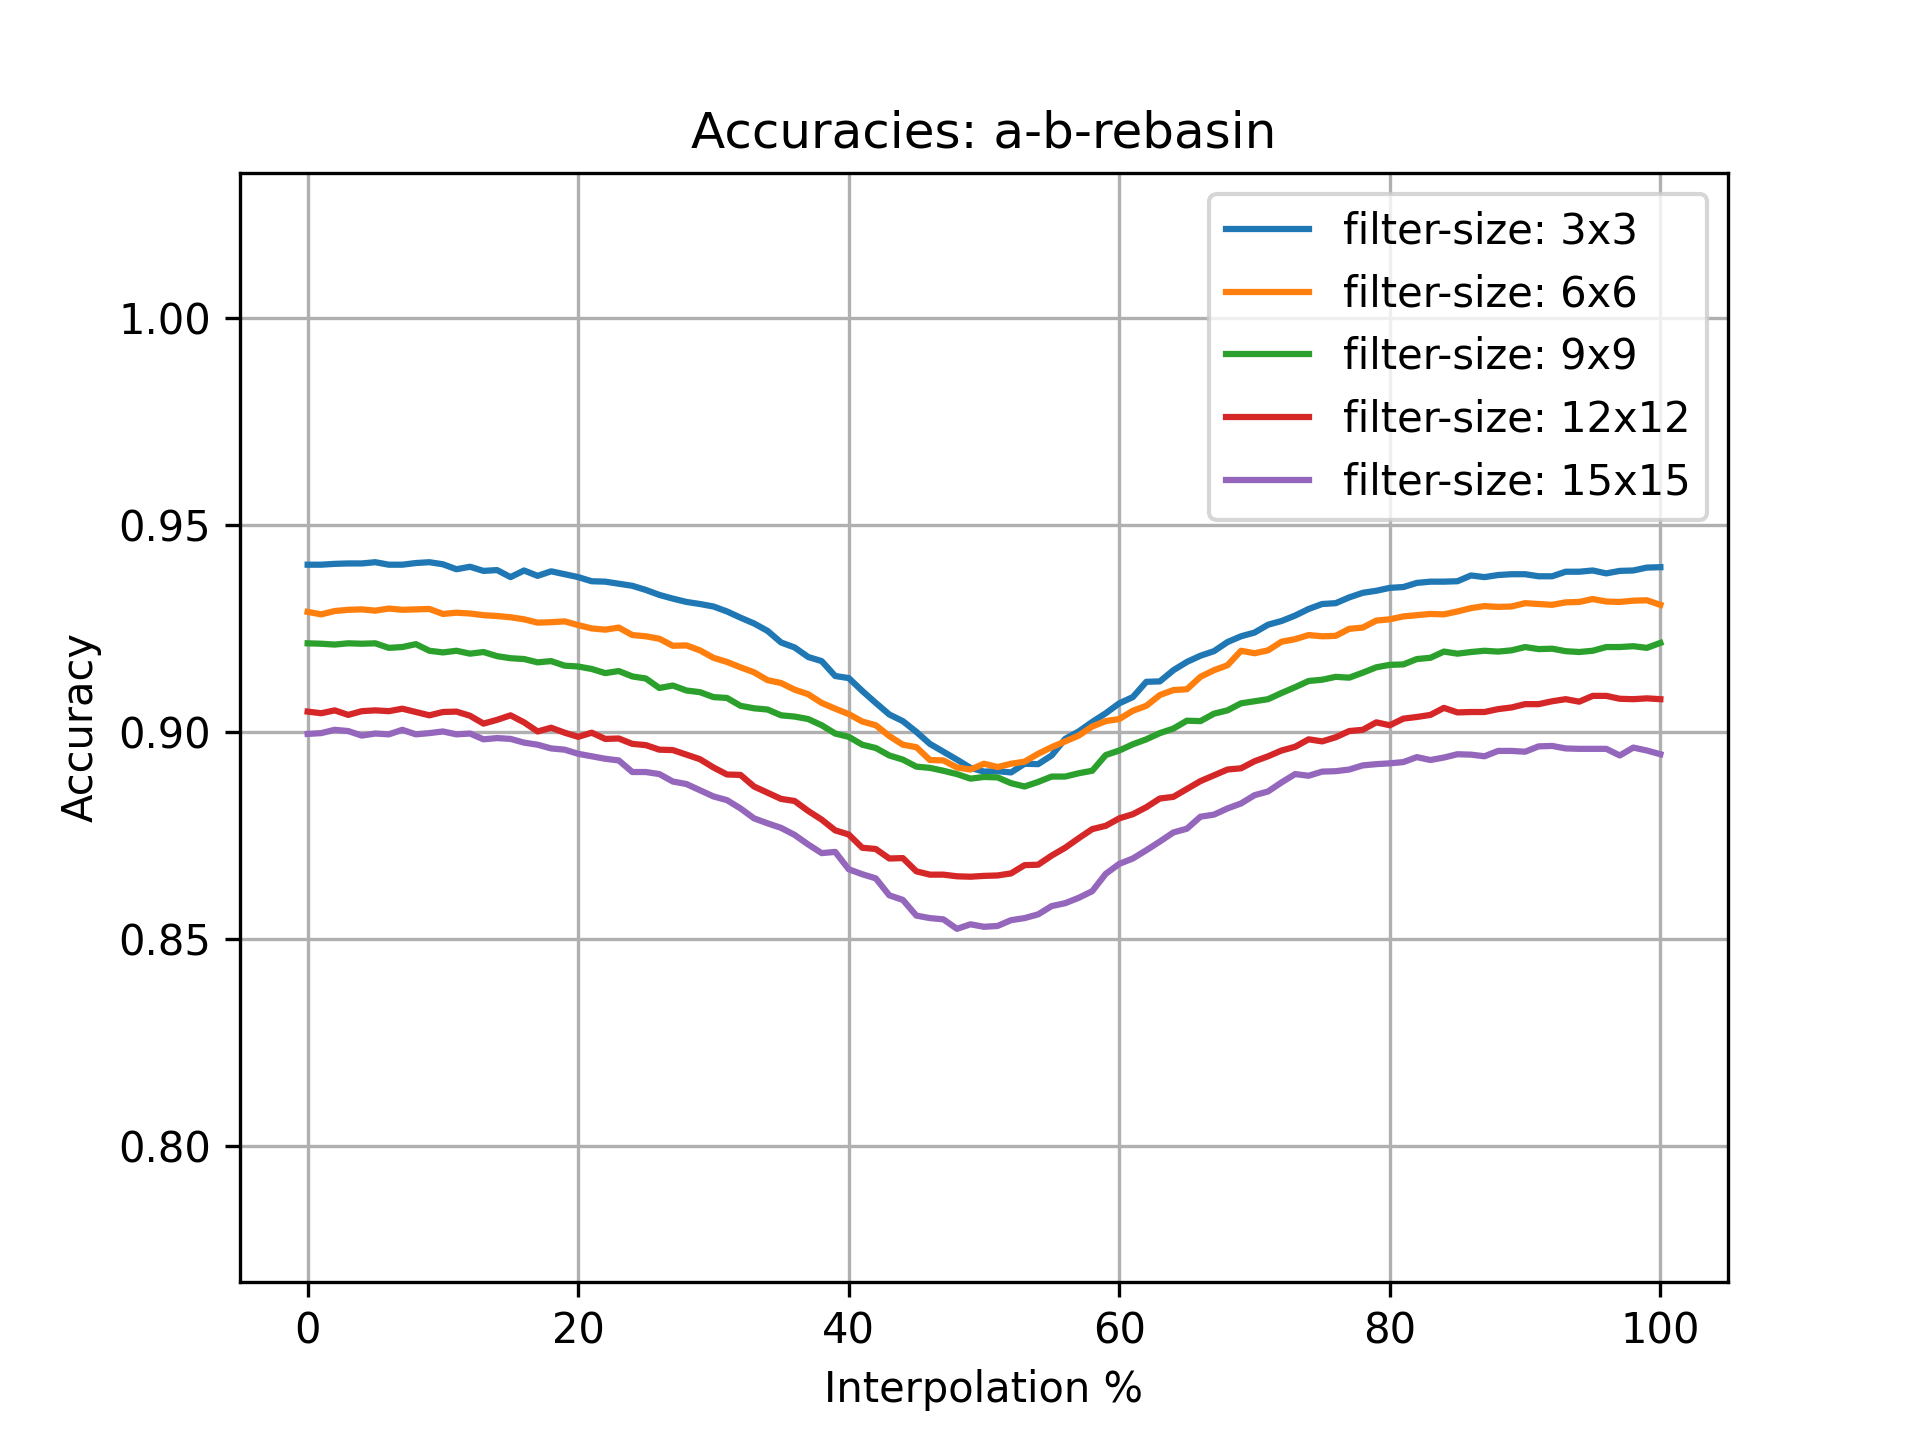
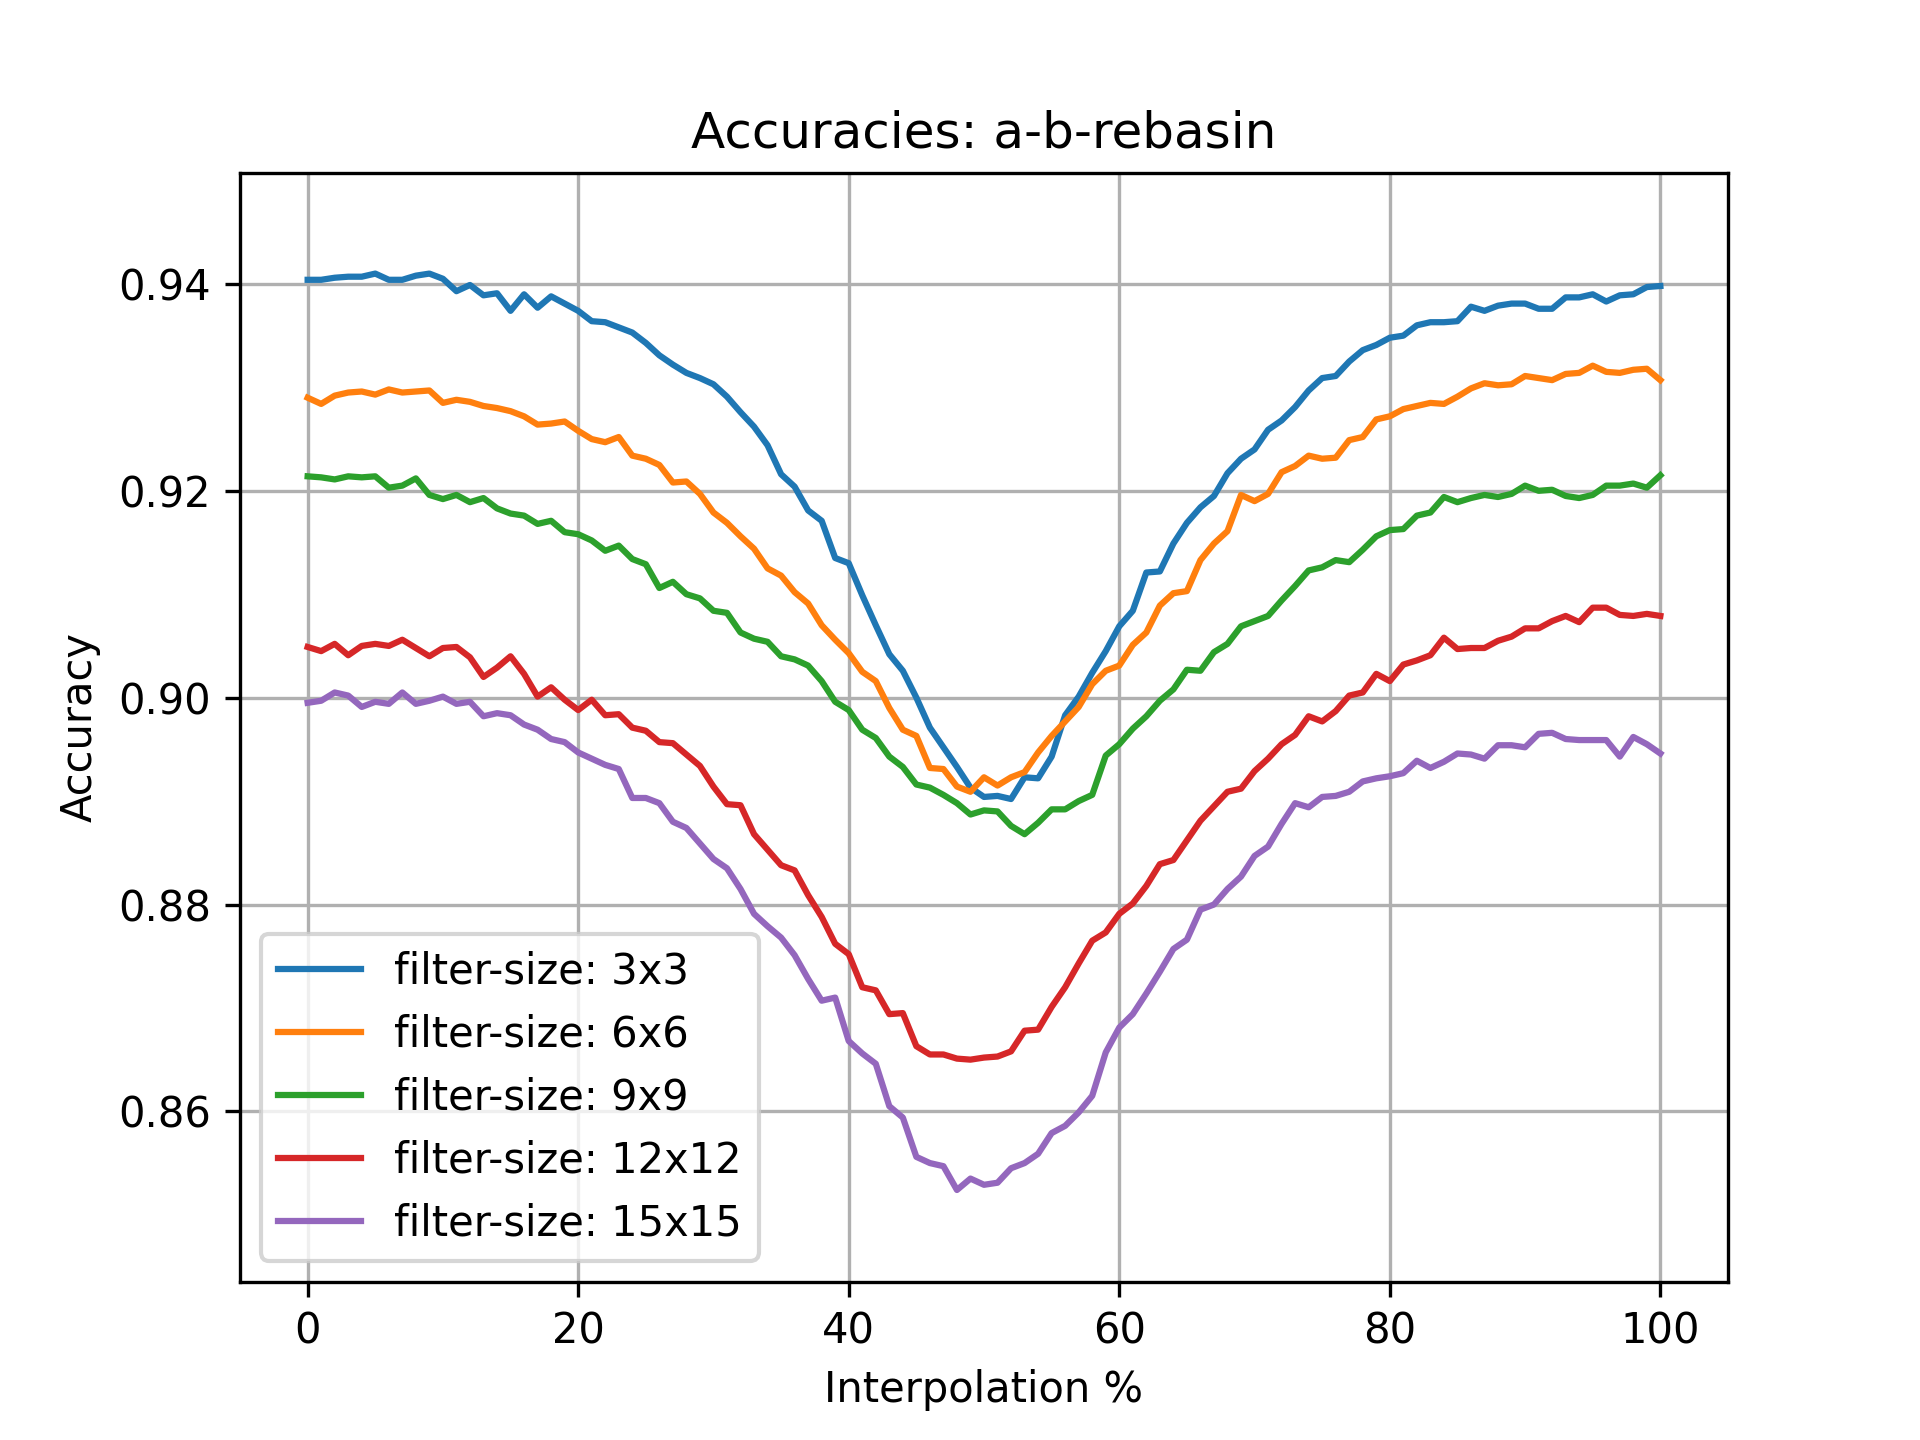
Improve results

diff --git a/hlb-CIFAR10/plot_results.py b/hlb-CIFAR10/plot_results.py
@@ -69,7 +69,9 @@ def plot_all_losses(sizes: list[str]) -> None:
         max_scale = max(max_scale, np.max(losses["a-b-rebasin"].values).item())
         min_scale = min(min_scale, np.min(losses["a-b-rebasin"].values).item())
 
-    plt.ylim(min_scale * 0.9, max_scale * 1.1)
+    min_scale -= 0.1 * (max_scale - min_scale)
+    max_scale += 0.1 * (max_scale - min_scale)
+    plt.ylim(min_scale, max_scale)
     plt.legend()
     plt.savefig("losses-all.png", dpi=300)
     # plt.show()
@@ -90,7 +92,9 @@ def plot_all_accuracies(sizes: list[str]) -> None:
         max_scale = max(max_scale, np.max(accs["a-b-rebasin"].values).item())
         min_scale = min(min_scale, np.min(accs["a-b-rebasin"].values).item())
 
-    plt.ylim(min_scale * 0.9, max_scale * 1.1)
+    min_scale -= 0.1 * (max_scale - min_scale)
+    max_scale += 0.1 * (max_scale - min_scale)
+    plt.ylim(min_scale, max_scale)
     plt.legend()
     plt.savefig("accuracies-all.png", dpi=300)
     # plt.show()
@@ -116,7 +120,9 @@ def plot_all_losses_from_same_startpoint(cmp_size: str, sizes: list[str]) -> Non
         max_scale = max(max_scale, np.max(values).item())
         min_scale = min(min_scale, np.min(values).item())
 
-    plt.ylim(min_scale * 0.9, max_scale * 1.1)
+    min_scale -= 0.1 * (max_scale - min_scale)
+    max_scale += 0.1 * (max_scale - min_scale)
+    plt.ylim(min_scale, max_scale)
     plt.legend()
     plt.savefig("losses-all-normalized-startpoint.png", dpi=300)
     # plt.show()
@@ -142,7 +148,9 @@ def plot_all_accuracies_from_same_startpoint(cmp_size: str, sizes: list[str]) ->
         max_scale = max(max_scale, np.max(values).item())
         min_scale = min(min_scale, np.min(values).item())
 
-    plt.ylim(min_scale * 0.9, max_scale * 1.1)
+    min_scale -= 0.1 * (max_scale - min_scale)
+    max_scale += 0.1 * (max_scale - min_scale)
+    plt.ylim(min_scale, max_scale)
     plt.legend()
     plt.savefig("accuracies-all-normalized-startpoint.png", dpi=300)
     # plt.show()
@@ -150,7 +158,7 @@ def plot_all_accuracies_from_same_startpoint(cmp_size: str, sizes: list[str]) ->
 
 if __name__ == "__main__":
     sizes = ["3x3", "6x6", "9x9", "12x12", "15x15"]
-    # plot_all_losses_from_same_startpoint("3x3", sizes)
+    plot_all_losses_from_same_startpoint("3x3", sizes)
     # plot_all_accuracies_from_same_startpoint("3x3", sizes)
     # plot_all_losses(sizes)
-    plot_all_accuracies(sizes)
+    # plot_all_accuracies(sizes)

diff --git a/hlb-CIFAR10/RESULTS.md b/hlb-CIFAR10/RESULTS.md
@@ -69,7 +69,7 @@ The original filter size.
 
 A few things immediately jump out to me from the plots above:
 
-1. The mothod works somewhat; interpolation between `model_a` and `model_b (rebasin)`
+1. The method works somewhat; interpolation between `model_a` and `model_b (rebasin)`
     is much better than between `model_a` and `model_b (original)`.
 2. Applying the method to `model_b` and then interpolating between 
      `model_b (original)` and `model_b (rebasin)` yields better results than
@@ -80,12 +80,56 @@ A few things immediately jump out to me from the plots above:
      At least for this model, interpolation between `model_a` and `model_b (rebasin)`
      leads to almost flat accuracies. 
 4. Larger filter size is said to work better in the paper, 
-    and actually do work slightly better. It should be noted, however, that 
-    increasing the filter size significantly increases the number of parameters,
-    and thus the compute it takes to train the model, without increasing
-    accuracy or decreasing the loss (in fact, it slightly worsens the results, 
-    though that may just be because the hyperparameters were not adapted to the 
-    changed model at all).
+    but it is unclear to me if this is actually the case here. Let's look at that 
+    in more detail below.
+
+#### Filter-size analysis
+
+Below, I plot the losses and accuracies 
+when interpolating between `model_a` and `model_b (rebasin)`.
+
+I do so for all filter-sizes.
+
+<p align="center">
+    <img
+        src="losses-all.png" 
+        alt="Losses of Git re-basin for hlb-CIFAR10 with different filter-sizes"
+        width="600"
+    />
+</p>
+
+<p align="center">
+    <img
+        src="accuracies-all.png" 
+        alt="Accuracies of Git re-basin for hlb-CIFAR10 with different filter-sizes"
+        width="600"
+    />
+</p>
+
+It is not clear to me that larger filter sizes lead to better results. 
+However, larger filter-sizes do degrade model-performance in general, 
+so to give a comparison of how rebasin affects how interpolation between models
+behaves, I plot the losses and accuracies again below, but this time 
+I move all startpoints (i.e. `model_a`) to the results of the 3x3-filter.
+
+<p align="center">
+    <img
+        src="losses-all-normalized-startpoint.png" 
+        alt="Losses of Git re-basin for hlb-CIFAR10 with different filter-sizes"
+        width="600"
+    />
+</p>
+
+<p align="center">
+    <img
+        src="accuracies-all-normalized-startpoint.png" 
+        alt="Accuracies of Git re-basin for hlb-CIFAR10 with different filter-sizes"
+        width="600"
+    />
+</p>
+
+The behavior seems noisy, though slightly better for larger filter-sizes.
+
 
 ## Model
 
